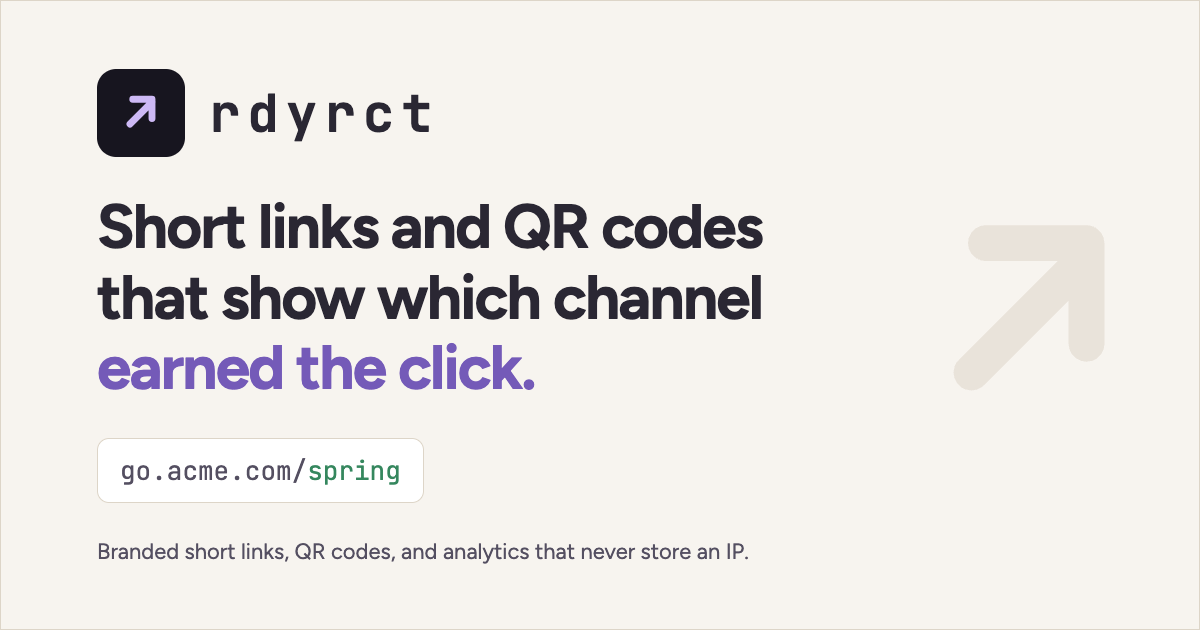
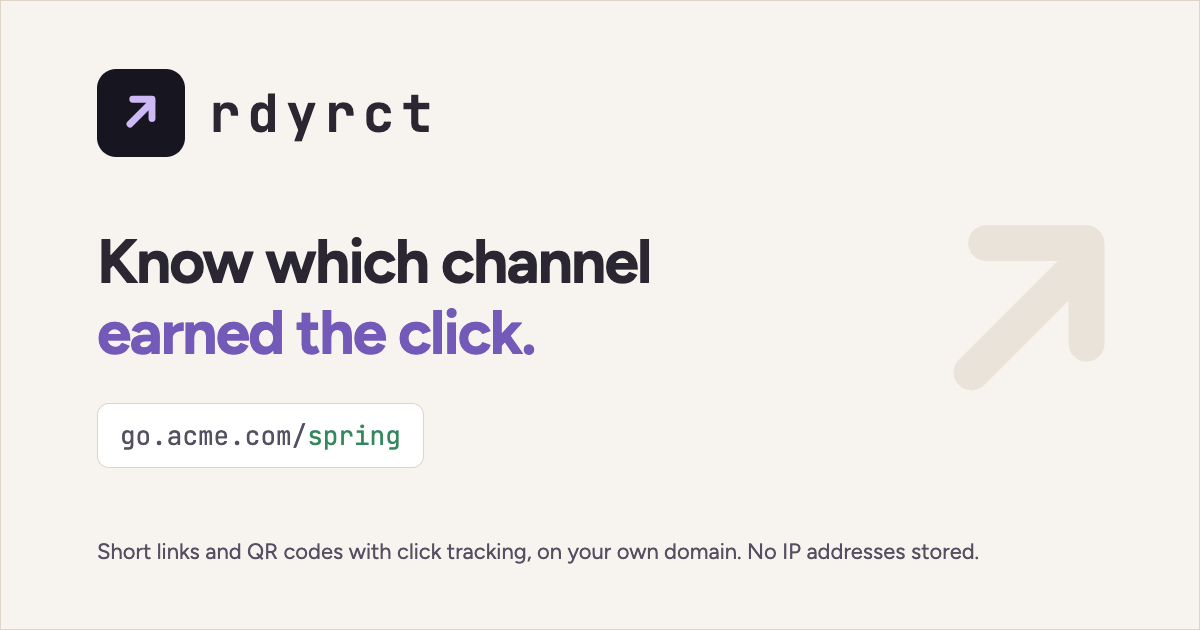
Bring the OG card in step with the new hero

Changed region(s): [[0.0617, 0.3016, 0.6475, 0.6333], [0.0925, 0.8444, 0.8017, 0.9048], [0.0925, 0.6635, 0.3392, 0.7841]]

diff --git a/scripts/og-image.html b/scripts/og-image.html
@@ -159,13 +159,15 @@
     </div>
 
     <div class="middle">
-      <h1>Short links and QR codes that show which channel <em>earned the click.</em></h1>
+      <h1>Know which channel <em>earned the click.</em></h1>
 
       <span class="chip">
         <span><span class="host">go.acme.com/</span><span class="slug">spring</span></span>
       </span>
     </div>
 
-    <p class="foot">Branded short links, QR codes, and analytics that never store an IP.</p>
+    <p class="foot">
+      Short links and QR codes with click tracking, on your own domain. No IP addresses stored.
+    </p>
   </body>
 </html>
